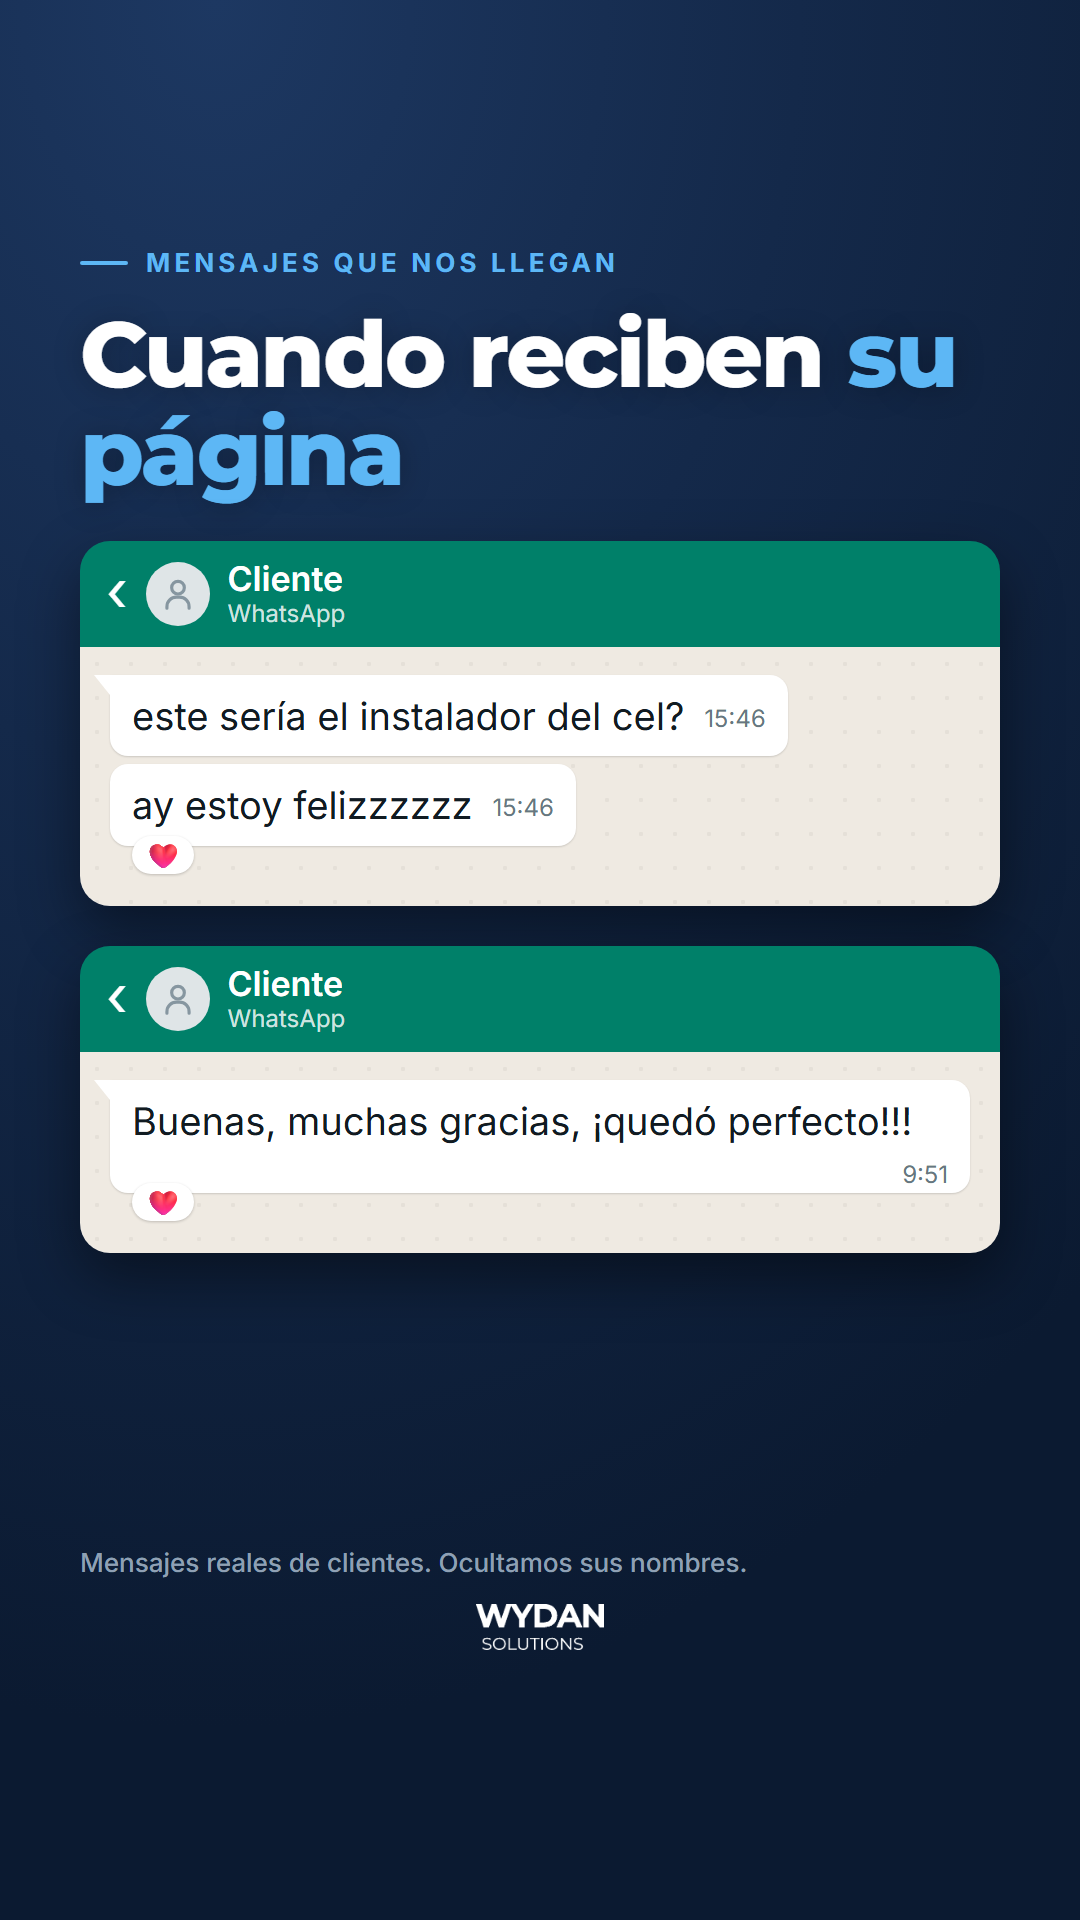
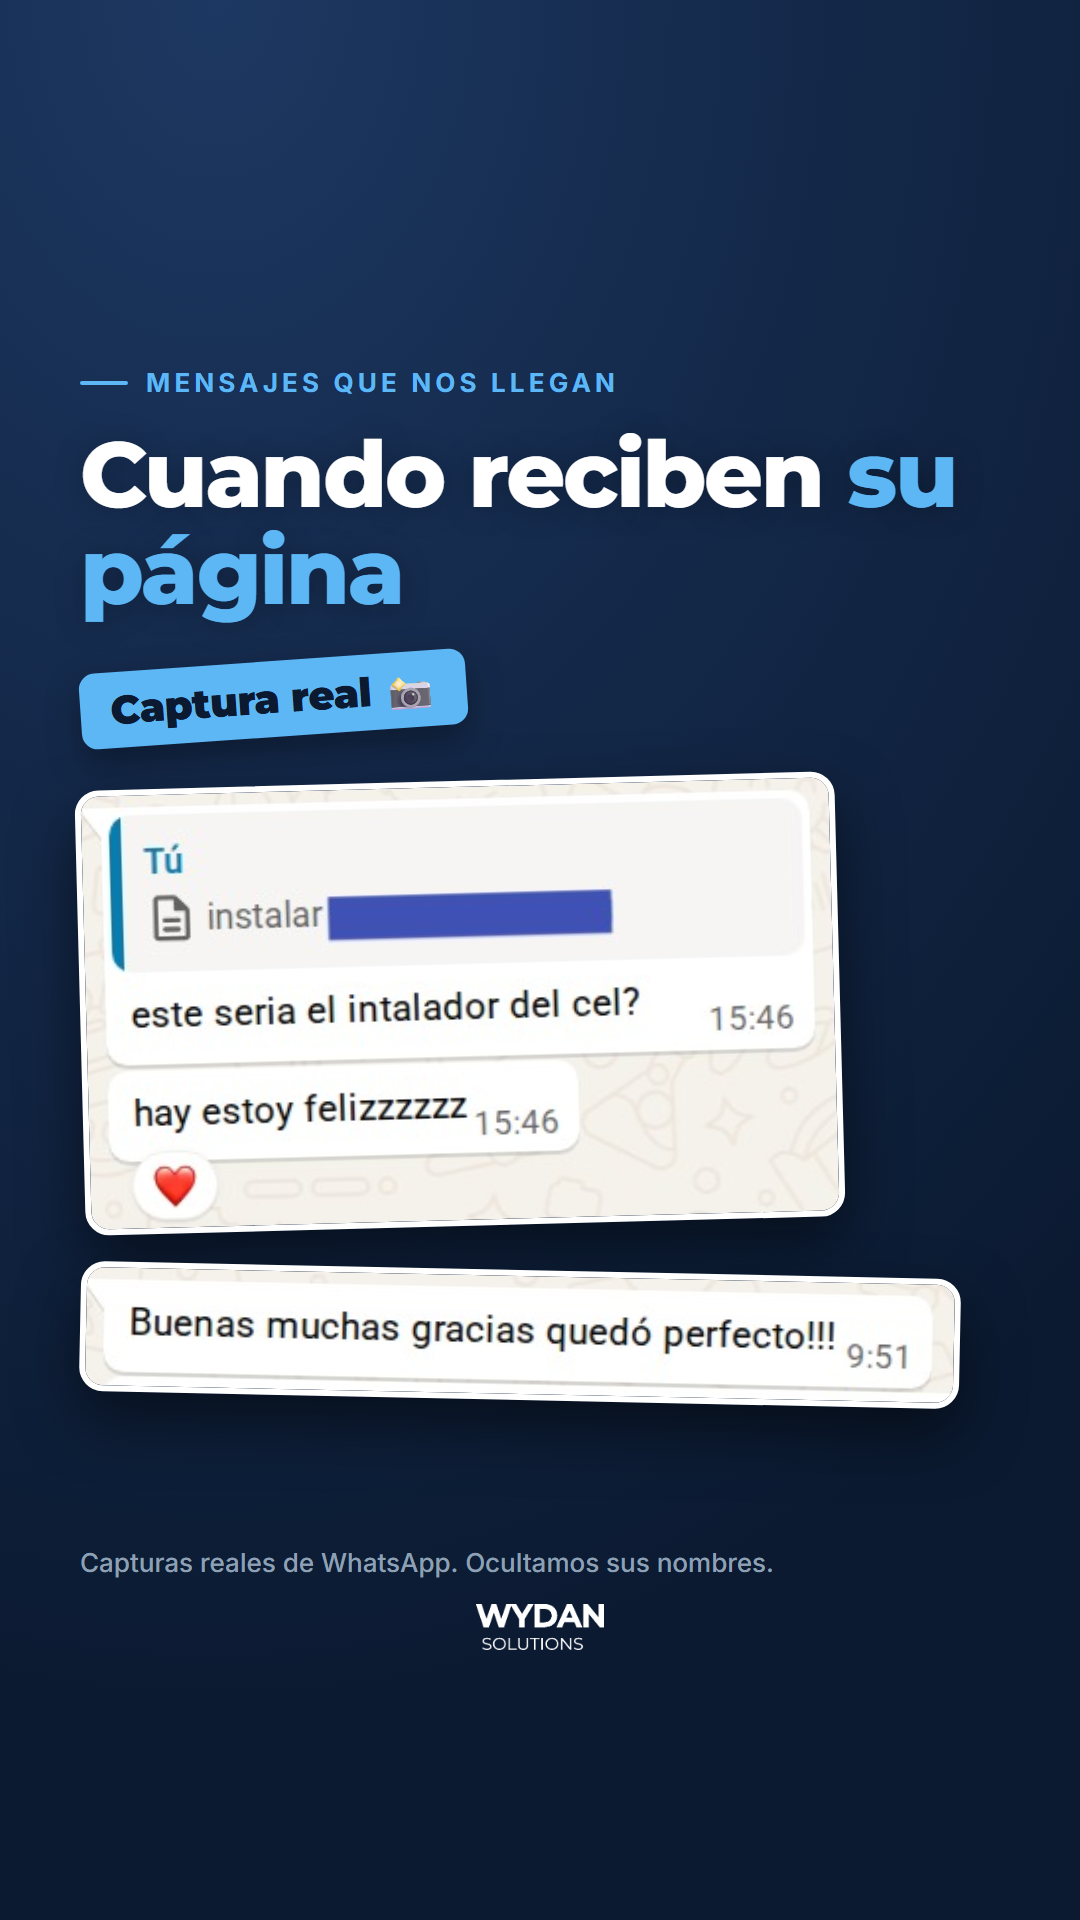
Clientes: capturas originales de WhatsApp recortadas, sin nombres

diff --git a/publicaciones.js b/publicaciones.js
@@ -296,27 +296,14 @@ const HISTORIAS = {
   ],
   'd3-clientes': [
     { tipo: 'h-portada', foto: 'fotos/escritorio-ordenado.jpg', pos: 'center', sticker: 'Testimonios reales', chip: 'Clientes', titulo: 'Lo que dicen <em>quienes ya la usan</em>', bajada: 'Tocá para leerlos →' },
-    // Mensajes reales de clientes por WhatsApp (capturas del 23/9 al 29/10/2026). Solo lo que escribió el cliente,
-    // sin nombres, números ni fotos; cada grupo es una persona distinta (no se mezclan en un mismo chat).
-    // Cada mensaje: [hora en que llegó, texto].
-    { tipo: 'h-chat', chip: 'Mensajes que nos llegan', titulo: 'La usan <em>todos los días</em>', grupos: [
-      { mensajes: [['15:33', 'Hola, ¿cómo estás? Bueno nada, paso para agradecer la mano que me dieron con la página, la verdad que no sabía que estaba tan desordenada.. jajaja'], ['15:33', 'Fuera de joda, la verdad muchas gracias.. lo uso a diario y a cada rato.']] },
-      { mensajes: [['10:15', 'todos los días estoy haciendo algo en él']], corazon: true },
-    ] },
-    { tipo: 'h-chat', chip: 'Mensajes que nos llegan', titulo: 'Todo <em>en un solo lugar</em>', grupos: [
-      { mensajes: [['18:42', 'No, no. Muy bueno. Todo lo q necesito en 1 solo']], corazon: true },
-      { mensajes: [['10:16', 'en estos días de vencimiento, cuando hago el boleto de pago, ya voy cargando la info de cada cliente y agregando su línea en las pestañas correspondientes']] },
-    ] },
-    { tipo: 'h-chat', chip: 'Mensajes que nos llegan', titulo: 'Su negocio, <em>esté donde esté</em>', grupos: [
-      { mensajes: [['10:18', 'Me viene siendo bien útil'], ['10:18', 'La semana pasada estuve un par de días fuera de Rivera, y tener toda la información ahí me salvó']] },
-    ] },
-    { tipo: 'h-chat', chip: 'Mensajes que nos llegan', titulo: 'Cuando reciben <em>su página</em>', grupos: [
-      { mensajes: [['15:46', 'este sería el instalador del cel?'], ['15:46', 'ay estoy felizzzzzz']], corazon: true },
-      { mensajes: [['9:51', 'Buenas, muchas gracias, ¡quedó perfecto!!!']], corazon: true },
-    ] },
-    { tipo: 'h-chat', chip: 'Mensajes que nos llegan', titulo: 'Y nos <em>recomiendan</em> 🙌', grupos: [
-      { mensajes: [['12:30', 'Y una colega amiga […] se va a poner en contacto contigo']], corazon: true },
-    ] },
+    // Capturas originales de WhatsApp de clientes (23/9 al 29/10/2026), recortadas a SOLO los globos del cliente en
+    // img/capturas/ (sin nombres; el pueblo de la colega tapado en azul). Las capturas enteras no se guardan acá.
+    // w = ancho del recorte en px (se agranda hasta el doble, sin pasar de 920).
+    { tipo: 'h-capturas', chip: 'Mensajes que nos llegan', titulo: 'La usan <em>todos los días</em>', capturas: [{ id: 'gracias', w: 735 }, { id: 'todos-dias', w: 450 }] },
+    { tipo: 'h-capturas', chip: 'Mensajes que nos llegan', titulo: 'Todo <em>en un solo lugar</em>', capturas: [{ id: 'muy-bueno', w: 520 }, { id: 'vencimiento', w: 725 }] },
+    { tipo: 'h-capturas', chip: 'Mensajes que nos llegan', titulo: 'Su negocio, <em>esté donde esté</em>', capturas: [{ id: 'fuera', w: 725 }] },
+    { tipo: 'h-capturas', chip: 'Mensajes que nos llegan', titulo: 'Cuando reciben <em>su página</em>', capturas: [{ id: 'feliz', w: 380 }, { id: 'perfecto', w: 440 }] },
+    { tipo: 'h-capturas', chip: 'Mensajes que nos llegan', titulo: 'Y nos <em>recomiendan</em> 🙌', capturas: [{ id: 'colega', w: 720 }] },
     { tipo: 'h-testimonio', rubro: 'Taller de camiones', ciudad: 'Rivera',
       texto: 'Desde que comenzamos a utilizar el aplicativo, la forma de gestionar el taller ha mejorado muchísimo. […] Estamos muy conformes y contentos con el resultado. […] Sin dudas, recomendamos esta herramienta.' },
     { tipo: 'h-testimonio', rubro: 'Estudio Contable W. Machado', ciudad: 'Rivera',

diff --git a/index.html b/index.html
@@ -190,7 +190,7 @@ Tu negocio ordenado en una página hecha para vos
   <div id="publicaciones"></div>
 </div>
 
-<script src="publicaciones.js?v=202610291840"></script>
+<script src="publicaciones.js?v=202610291852"></script>
 <script>
   const VIDEOS = 'videos/';
   const carpeta = p => `imagenes/${String(p.n).padStart(2, '0')}-${p.id}/`;
